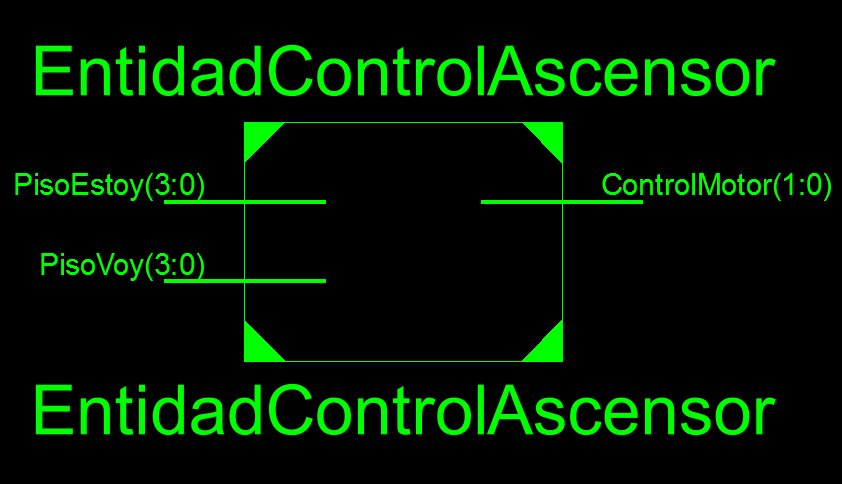
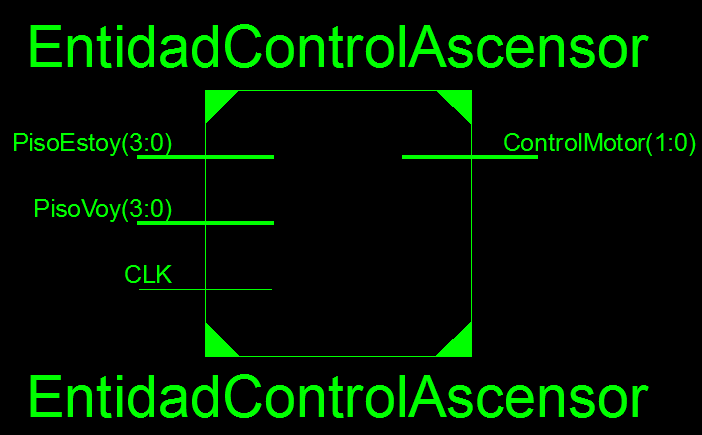
Memoria actualizada

Changed region(s): [[0.0, 0.0598, 1.0, 0.9563]]

diff --git a/Codigo.tex b/Codigo.tex
@@ -314,7 +314,35 @@ Esta entidad, formada por tres bloques, dos Decodificador7s y un DivisorFrecuenc
 		    \label{fig:SimulacionEntidadVisualizacion}
 	\end{figure}
 
+\subsection {Código Bloque \textit{DecodificadoLED} :} \label{code:DecodificadorLED}
+	\inputminted[frame=lines,fontsize=\footnotesize,linenos]{vhdl}{CodeFiles/DecodificadorLED.vhd}
 
+	Como se puede ver en la Figura (\ref{fig:DecodificadorLEDOK}) el esquema obtenido una vez programado y sintetizado se corresponde con el que se pretendía.
+    \begin{figure}[H]
+		    \centering
+		    \includegraphics[width = 0.6\textwidth ]{DecodificadorLEDOK}
+		    \caption{Esquema exterior del Bloque Decodificador LED}
+		    \label{fig:DecodificadorLEDOK}
+	\end{figure}
+    Además podemos ver en la Figura (\ref{fig:DecodificadorLEDOKImplementacion}) como se compone internamente el bloque, como se codifica en hardware esta utilidad:
+    \begin{figure}[H]
+		    \centering
+		    \includegraphics[width = 0.9\textwidth ]{DecodificadorLEDOKImplementacion}
+		    \caption{Esquema interno del Bloque Decodificador LED}
+		    \label{fig:DecodificadorLEDOKImplementacion}
+	\end{figure}
+	
+\subsection {Código Bloque \textit{DecodificadoLED (testbench)} :} \label{code:DecodificadorLED_tb}
+	\inputminted[frame=lines,fontsize=\footnotesize,linenos]{vhdl}{CodeFiles/DecodificadorLED_tb.vhd}
+
+    Utilizando este testbench se obtiene el comportamiento que se puede ver en la Figura (\ref{fig:SimulacionDecodificadorLED}):
+
+    \begin{figure}[H]
+		    \centering
+		    \includegraphics[width = 0.8\textwidth ]{SimulacionDecodificadorLED}
+		    \caption{Simulación del testbench del DecodificadorLED}
+		    \label{fig:SimulacionDecodificadorLED}
+	\end{figure}
 \subsection{Código Código Entidad \textit{Acensor}:} \label{code:Acensor}
 Esta entidad,engobamos todas las anteriores para obtner asi funcinonamiento compoento de nuestro ascensor. \\ 
 	\inputminted[frame=lines,fontsize=\footnotesize,linenos]{vhdl}{CodeFiles/EntidadAscensor.vhd}

diff --git a/PruebasYResultados.tex b/PruebasYResultados.tex
@@ -37,27 +37,45 @@
     \centering
 		\begin{tabular}{|c|c||c|c|c|}
 			\hline
-			\rowcolor[rgb]{0.21,0.69,0.87}\multicolumn{4}{|c|}{  \textbf{ {Configuración Pines de los displays de 7 segmentos}}} \\
+			\rowcolor[rgb]{0.21,0.69,0.87}\multicolumn{5}{|c|}{  \textbf{ {Configuración Pines de los displays de 7 segmentos}}} \\
 			\hline \hline
 			\multicolumn{2}{|c|}{  \textbf{ { Salida7s (7bits)}}} & \multicolumn{2}{|c|}{\textbf{Ánodos de Control}} \\
 			\hline
-			Salida7s[0] & E14 & Motor & AN0 & D14 \\
+			Salida7s[0] & P16 & Motor & AN0 & D14 \\
 			\hline
-			Salida7s[1] & G13 & Puerta & AN1 & G14 \\
+			Salida7s[1] & N16 & Puerta & AN1 & G14 \\
 			\hline
-			Salida7s[2] & N15 & PisoVoy & AN2 & F14 \\
+			Salida7s[2] & F13 & PisoVoy & AN2 & F14 \\
 			\hline
-			Salida7s[3] & P15 & PisoEstoy & AN3 & E13 \\
+			Salida7s[3] & R16 & PisoEstoy & AN3 & E13 \\
 			\hline
-			Salida7s[4] & R16 & - & - & - \\
+			Salida7s[4] & P15 & - & - & - \\
 			\hline
-			Salida7s[5] & F13 & - & - & - \\
+			Salida7s[5] & N15 & - & - & - \\
 			\hline
-			Salida7s[6] & N16 & - & - & - \\
+			Salida7s[6] & G17 & - & - & - \\
+			\hline
+			Salida7s[7] & E14 & - & - & - \\
 			\hline
 		\end{tabular}
 		\caption{ Configuración de los pines de salida al display de 7 segmentos }
 		\label{tab:pin7s}
+	\end{table}
+
+
+	\begin{table}[H]
+    \centering
+		\begin{tabular}{|c|c|c|c|c|c|c|}
+			\hline
+			\rowcolor[rgb]{0.21,0.69,0.87}\multicolumn{4}{|c|}{  \textbf{ {Configuración Pines de los displays de 7 segmentos}}} \\
+			\hline \hline
+			LED[0] & LED[1] & LED[2] & LED[3] & LED[4] & LED[5] & LED[6] & LED[7] \\
+			\hline			
+			K12 & P14 & L12 & N14 & P13 & N12 & P12 & P11 \\
+			\hline
+		\end{tabular}
+		\caption{ Configuración de los pines de los LEDs para las "memorias" }
+		\label{tab:pinLEDs}
 	\end{table}
 	
 

diff --git a/Apendices.tex b/Apendices.tex
@@ -66,7 +66,7 @@
 	\section{Codificación para display de 7 segmentos}	\label{app:7segmentos}
 		\begin{table}[H]
         \centering
-			\begin{tabular}{|ccccc|}
+			\begin{tabular}{| p{1/4\textwidth}| p{1/4\textwidth}  | p{1/4\textwidth}|| p{1/4\textwidth}| p{1/4\textwidth}|}
 				\hline
 				\rowcolor[rgb]{0.21,0.69,0.87}\multicolumn{5}{|c|}{  \textbf{ {Caracteres en binario para display de 7 segmentos}}} \\
 				\hline \hline

diff --git a/DiagramaBloques.tex b/DiagramaBloques.tex
@@ -175,5 +175,7 @@
 		    \label{fig:MotorPuerta}
 	\end{figure}
 
+\subsection {Bloque \textit{DecodificadoLED} :} \label{bloque:DecodificadorLED}
+
     
 	
